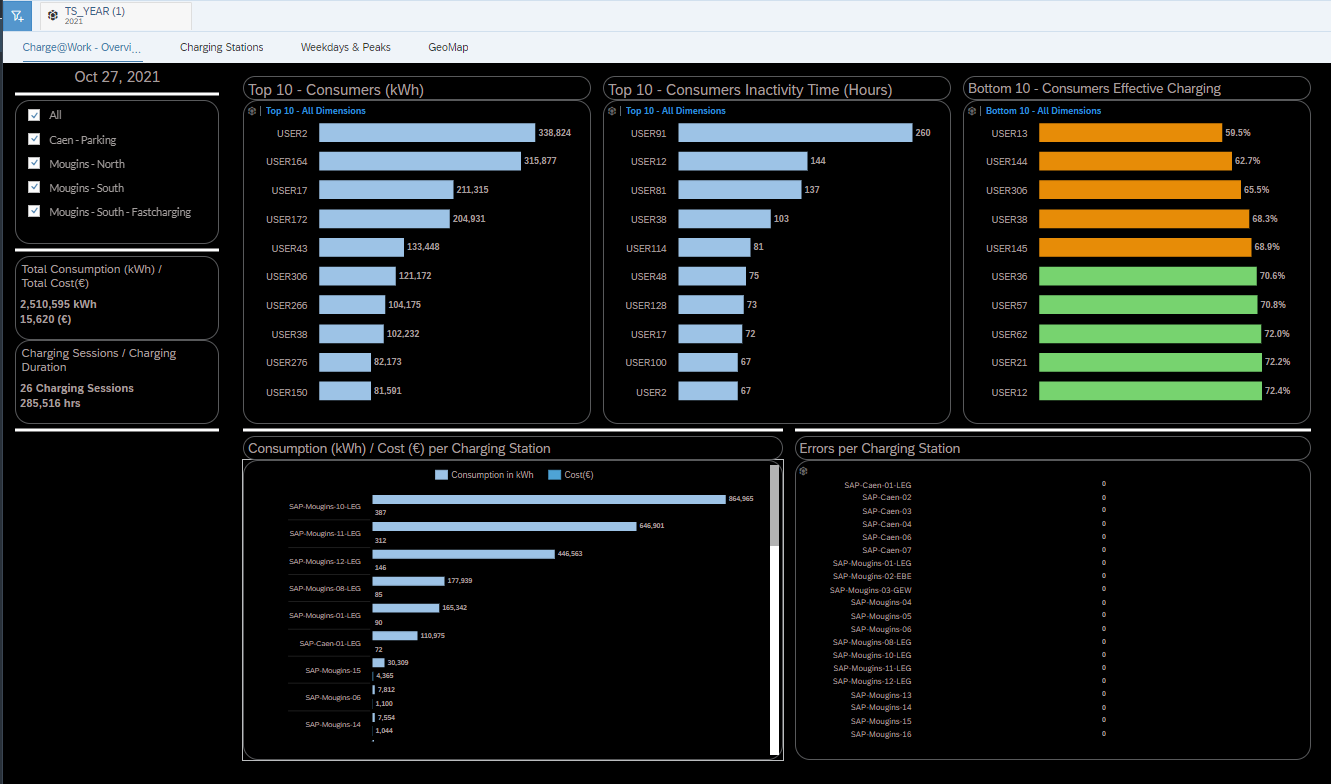
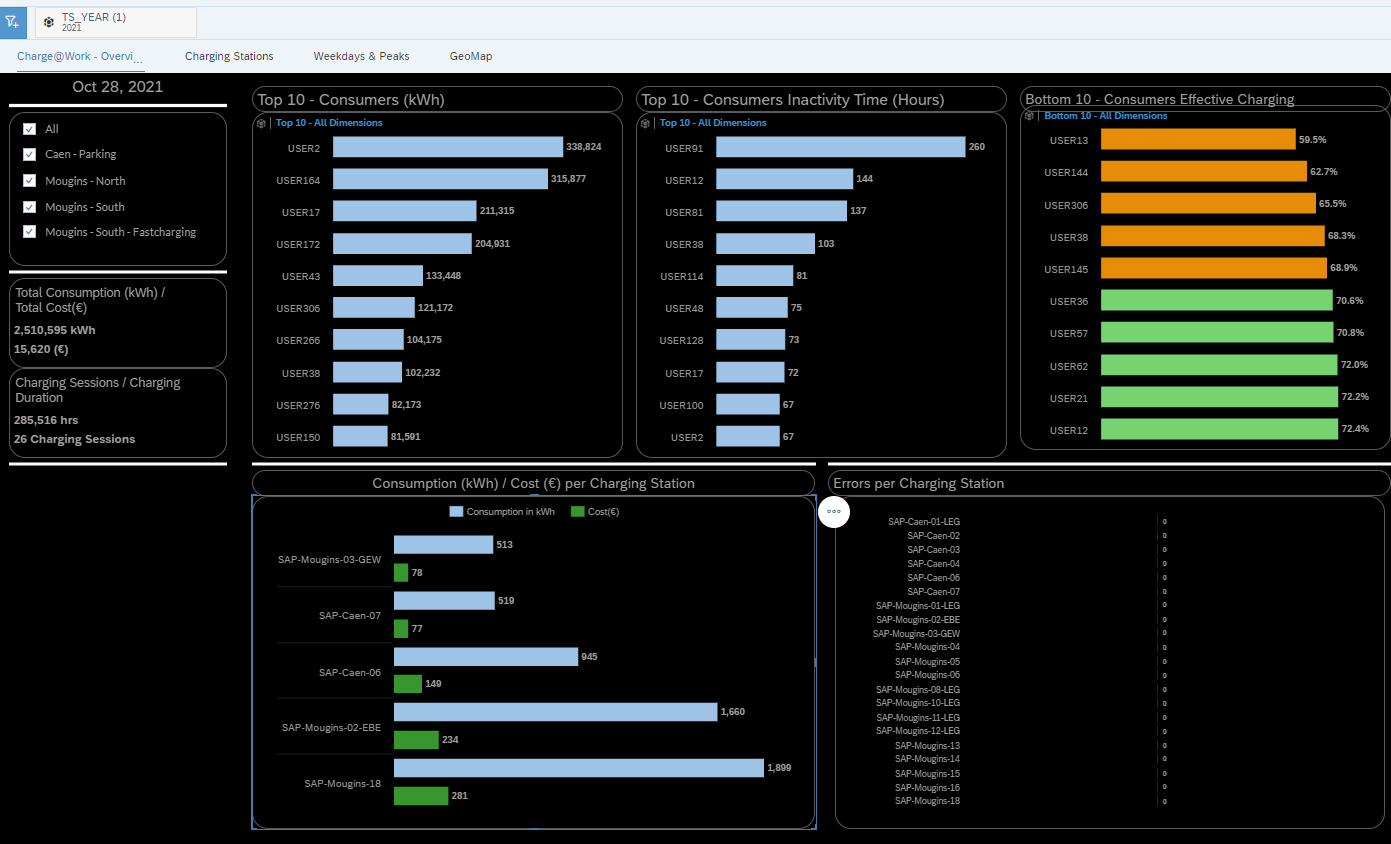
visualisation images

Changed region(s): [[0.0, 0.0, 1.0, 1.0]]

diff --git a/exercises/ex3/2.Building_visualisations.md b/exercises/ex3/2.Building_visualisations.md
@@ -191,7 +191,7 @@ At the conclusion of this exercise your story will look similar to the image bel
 
 ![](Images/2.Building_Visualisations_images/image31.png)<!--- {width="2.7084722222222224in" height="3.694634733158355in"} -->
 
-43. Select **3 dots** on the chart tile and click on **Sort- Consumption(kWh)- Highest to Lowest**
+43. Select **3 dots** on the chart tile and click on **Rank -> CHARGEBOXID -> Bottom5**
 
 ![](Images/2.Building_Visualisations_images/image32.png)<!--- {width="5.034981408573929in" height="4.11132217847769in"} -->
 
